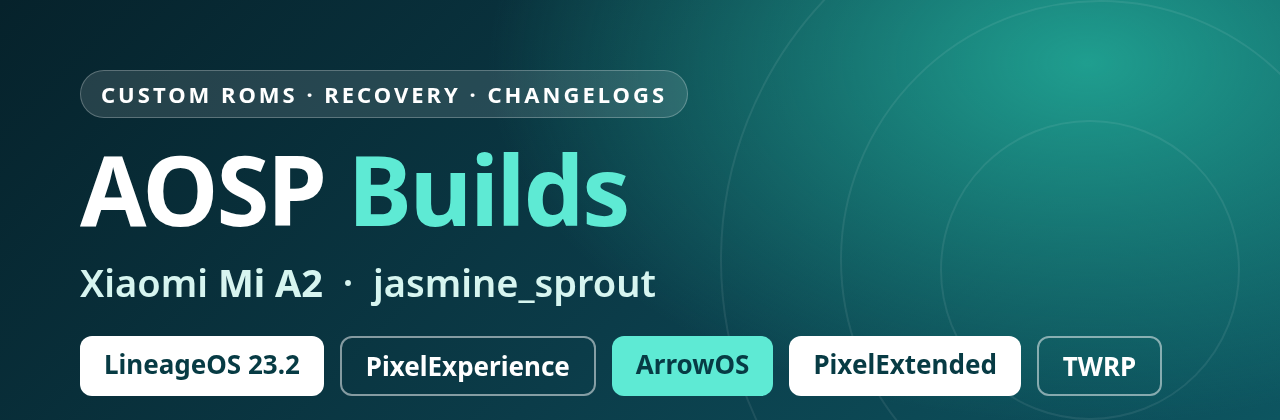
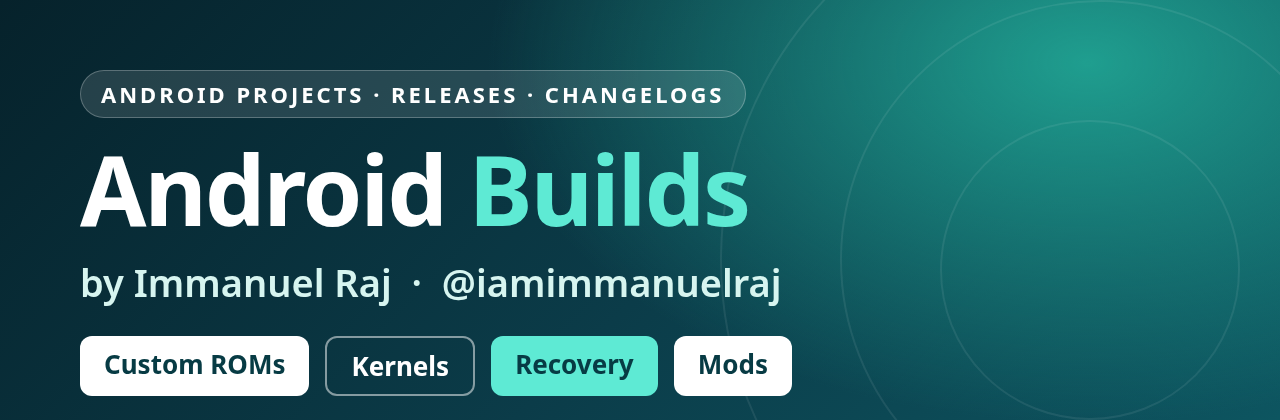
README: Cover all my Android work, move SourceForge links to GitHub
- Generic banner (ROMs, kernels, recovery, mods) instead of one device
- My SourceForge projects were removed for inactivity: point archived
  PixelExperience, PixelOS, ArrowOS 13, TWRP and Gboard Themer builds at
  the Import From SourceForge release
- Gboard Themer site link was dead; link the zips and the source repo
- Kernels section

diff --git a/README.md b/README.md
@@ -1,19 +1,18 @@
 <div align="center">
 
-<img src=".github/assets/banner.png" alt="AOSP Builds - Xiaomi Mi A2 (jasmine_sprout)" width="100%">
+<img src=".github/assets/banner.png" alt="Android Builds by Immanuel Raj" width="100%">
 
-**Custom ROMs, recovery and changelogs for the Xiaomi Mi A2 (jasmine_sprout)**
+**Everything I build for Android: custom ROMs, kernels, recoveries, mods, changelogs and flashing guides.**
 
 [![Latest](https://img.shields.io/badge/Latest-LineageOS%2023.2%20%C2%B7%2017.10.2026-0b3d44?style=for-the-badge&logo=lineageos&logoColor=white)](https://github.com/iamimmanuelraj/AOSP/releases/latest)
 [![Downloads](https://img.shields.io/github/downloads/iamimmanuelraj/AOSP/total?label=Downloads&style=for-the-badge&color=1c6f6a&cacheSeconds=3600)](https://github.com/iamimmanuelraj/AOSP/releases)
-[![Device](https://img.shields.io/badge/Device-Mi%20A2%20%28jasmine__sprout%29-5ce1d0?style=for-the-badge)](#roms)
 [![Telegram](https://img.shields.io/badge/Support-Telegram-26A5E4?style=for-the-badge&logo=telegram&logoColor=white)](https://t.me/immanuelsfoundation)
 
 </div>
 
 ---
 
-## Latest: LineageOS 23.2 (Android 16)
+## Latest: LineageOS 23.2 (Android 16) - Xiaomi Mi A2
 
 <a href="ROMS/LineageOS/23.2/20261017/README.md"><img src="ROMS/LineageOS/23.2/20261017/banner.png" alt="LineageOS 23.2 for Mi A2 - 17.10.2026" width="100%"></a>
 
@@ -29,24 +28,34 @@
 
 ## ROMs
 
-| ROM | Status | Download | Changelog |
-| --- | --- | --- | --- |
-| **LineageOS 23.2** (Android 16) | Unofficial · active | [GitHub Releases](https://github.com/iamimmanuelraj/AOSP/releases/tag/lineageos-23.2-jasmine_sprout-20261017) | [LineageOS](CHANGELOGS/LineageOS.md) |
-| **PixelExperience** | Official | [download.pixelexperience.org](https://download.pixelexperience.org/jasmine_sprout) | [PixelExperience](ROMS/PixelExperience/README.md) |
-| **ArrowOS** | Official | [arrowos.net](https://arrowos.net/download) | [ArrowOS](ROMS/ArrowOS/README.md) |
-| **PixelExtended** | Official | [SourceForge](https://sourceforge.net/projects/pixelextended/files/jasmine_sprout) | [PixelExtended](ROMS/PixelExtended/README.md) |
-| **Legion OS** | Official | [SourceForge](https://sourceforge.net/projects/legionrom/files/jasmine_sprout) | - |
-| **PixelExperience** (old builds) | Unofficial | [SourceForge](https://sourceforge.net/projects/immanuelsbuilds/files/Pixel-Experience/) | [PixelExperience](ROMS/PixelExperience/README.md) |
-| **Freaky OS** | Unofficial · test builds | [SourceForge](https://sourceforge.net/projects/teamneon-ports/files/Test-Builds/freaky/) | - |
+| ROM | Device | Status | Download | Changelog |
+| --- | --- | --- | --- | --- |
+| **LineageOS 23.2** (Android 16) | Mi A2 | Unofficial · active | [GitHub Releases](https://github.com/iamimmanuelraj/AOSP/releases/tag/lineageos-23.2-jasmine_sprout-20261017) | [LineageOS](CHANGELOGS/LineageOS.md) |
+| **PixelExperience** | Mi A2 | Official | [pixelexperience.org](https://download.pixelexperience.org/jasmine_sprout) | [PixelExperience](ROMS/PixelExperience/README.md) |
+| **PixelExperience** 11 Plus, 12, 12.1, 14 alpha | Mi A2 | Unofficial · archived | [GitHub release](https://github.com/iamimmanuelraj/AOSP/releases/tag/Import-From-Sourceforge) | [PixelExperience](ROMS/PixelExperience/README.md) |
+| **PixelOS** 14 | Mi A2 | Unofficial · archived | [GitHub release](https://github.com/iamimmanuelraj/AOSP/releases/tag/Import-From-Sourceforge) | - |
+| **ArrowOS** | Mi A2 | Official | [arrowos.net](https://arrowos.net/download) | [ArrowOS](ROMS/ArrowOS/README.md) |
+| **ArrowOS** 13 (GApps) | Mi A2 | Unofficial · archived | [GitHub release](https://github.com/iamimmanuelraj/AOSP/releases/tag/Import-From-Sourceforge) | [ArrowOS](ROMS/ArrowOS/README.md) |
+| **PixelExtended** | Mi A2 · Redmi Note 5 Pro | Official | [Pling](https://www.pling.com/p/1655281) · [project SourceForge](https://sourceforge.net/projects/pixelextended/files/jasmine_sprout) | [PixelExtended](ROMS/PixelExtended/README.md) |
+| **Legion OS** | Mi A2 | Official | [project SourceForge](https://sourceforge.net/projects/legionrom/files/jasmine_sprout) | - |
+| **Freaky OS** | Mi A2 | Unofficial · test builds | [TeamNeon SourceForge](https://sourceforge.net/projects/teamneon-ports/files/Test-Builds/freaky/) | - |
 
-*Some other ROMs I've built, like EVOX and AEX, may not have links. If you find them, please let me know and I'll add them here.*
+*My own SourceForge projects were removed for inactivity, so all builds from them now live in the [Import From SourceForge](https://github.com/iamimmanuelraj/AOSP/releases/tag/Import-From-Sourceforge) release. Some other ROMs I've built, like EVOX and AEX, may not have links. If you find them, let me know and I'll add them here.*
+
+## Kernels
+
+| Kernel | Device | Notes |
+| --- | --- | --- |
+| [android_kernel_xiaomi_sdm660](https://github.com/iamimmanuelraj/android_kernel_xiaomi_sdm660/tree/lineage-a16) | Mi A2 | LineageOS SDM660 4.19, branch `lineage-a16` - used by LineageOS 23.2 |
+| [kernel_xiaomi_jasmine_sprout](https://github.com/iamimmanuelraj/kernel_xiaomi_jasmine_sprout) | Mi A2 | 4.19 kernel with Android 16 support (first 23.2 test build) |
+| [android_kernel_xiaomi_jasmine_sprout](https://github.com/iamimmanuelraj/android_kernel_xiaomi_jasmine_sprout) | Mi A2 | Earlier kernel used by my older ROMs |
 
 ## Recovery and mods
 
-| Project | Status | Download |
-| --- | --- | --- |
-| **TWRP** - jasmine_sprout | Unofficial | [SourceForge](https://sourceforge.net/projects/immanuelsbuilds/files/TWRP/) · [Pling](https://www.pling.com/p/1671453) |
-| **Gboard Themer** - all devices | Own project · inactive | [iamimmanuelraj.github.io/Gboardthemer](https://iamimmanuelraj.github.io/Gboardthemer/) |
+| Project | Device | Status | Download |
+| --- | --- | --- | --- |
+| **TWRP** 3.5.2, 3.6 | Mi A2 | Unofficial · archived | [GitHub release](https://github.com/iamimmanuelraj/AOSP/releases/tag/Import-From-Sourceforge) · [Pling](https://www.pling.com/p/1671453) |
+| **Gboard Themer** | All devices | Own project · inactive | [Theme enabler zips](https://github.com/iamimmanuelraj/AOSP/releases/tag/Import-From-Sourceforge) · [Source](https://github.com/iamimmanuelraj/Gboardthemer) |
 
 ## Before you flash
 
@@ -58,10 +67,8 @@
 | [File-based encryption](FLASHING/FBE/About.md) | What FBE means for your data |
 
 <details>
-<summary><b>Alternate download mirrors</b></summary>
+<summary><b>Other mirrors</b></summary>
 
-- [PixelExperience UNOFFICIAL - old builds (SourceForge)](https://sourceforge.net/projects/pixelexperienceunofficial-mia2/)
-- [PixelExperience UNOFFICIAL - old builds (SourceForge, TeamNeon)](https://sourceforge.net/projects/teamneon-ports/files/Pixel-Experience/)
 - [PixelExperience UNOFFICIAL - old builds (Pling)](https://www.pling.com/p/1671391)
 - [PixelExperience UNOFFICIAL - old builds (AndroidFileHost)](https://androidfilehost.com/?w=files&flid=315505)
 - [Pixel Extended OFFICIAL - Mi A2 and Redmi Note 5 Pro (Pling)](https://www.pling.com/p/1655281)
